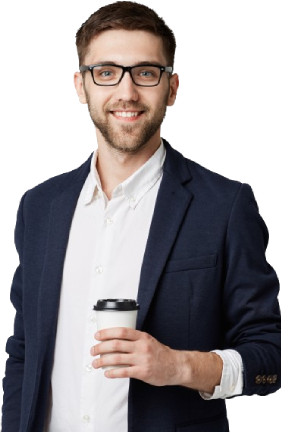
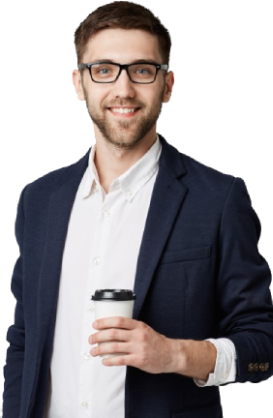
Add files via upload

diff --git a/portfolio.html b/portfolio.html
@@ -64,8 +64,8 @@
                 <div class="row portfolio-container">
                     <div class="col-lg-4 col-md-6 portfolio-item">
                         <div class="portfolio-img">
-                            <img src="images/portfolio-1.jpg" class="img-fluid" alt="Portfolio">
-                            <a href="images/portfolio-1.jpg" data-lightbox="portfolio" data-title="Lorem ipsum dolor" class="link-preview" title="Preview"><i class="ion-md-eye"></i></a>
+                            <img src="images/portfolio-1.png" class="img-fluid" alt="Portfolio">
+                            <a href="images/portfolio-1.png" data-lightbox="portfolio" data-title="Lorem ipsum dolor" class="link-preview" title="Preview"><i class="ion-md-eye"></i></a>
                             <a href="" class="link-details" title="More Details"><i class="ion-md-open"></i></a>
                         </div>
                         <div class="portfolio-info">
@@ -75,8 +75,8 @@
                     </div>
                     <div class="col-lg-4 col-md-6 portfolio-item">
                         <div class="portfolio-img">
-                            <img src="images/portfolio-2.jpg" class="img-fluid" alt="Portfolio">
-                            <a href="images/portfolio-2.jpg" class="link-preview" data-lightbox="portfolio" data-title="Nulla ullamcorper pharetra" title="Preview"><i class="ion-md-eye"></i></a>
+                            <img src="images/portfolio-2.png" class="img-fluid" alt="Portfolio">
+                            <a href="images/portfolio-2.png" class="link-preview" data-lightbox="portfolio" data-title="Nulla ullamcorper pharetra" title="Preview"><i class="ion-md-eye"></i></a>
                             <a href="" class="link-details" title="More Details"><i class="ion-md-open"></i></a>
                         </div>
                         <div class="portfolio-info">
@@ -86,8 +86,8 @@
                     </div>
                     <div class="col-lg-4 col-md-6 portfolio-item">
                         <div class="portfolio-img">
-                            <img src="images/portfolio-3.jpg" class="img-fluid" alt="Portfolio">
-                            <a href="images/portfolio-3.jpg" class="link-preview" data-lightbox="portfolio" data-title="Phasellus eget dictum" title="Preview"><i class="ion-md-eye"></i></a>
+                            <img src="images/portfolio-3.png" class="img-fluid" alt="Portfolio">
+                            <a href="images/portfolio-3.png" class="link-preview" data-lightbox="portfolio" data-title="Phasellus eget dictum" title="Preview"><i class="ion-md-eye"></i></a>
                             <a href="" class="link-details" title="More Details"><i class="ion-md-open"></i></a>
                         </div>
                         <div class="portfolio-info">
@@ -97,8 +97,8 @@
                     </div>
                     <div class="col-lg-4 col-md-6 portfolio-item">
                         <div class="portfolio-img">
-                            <img src="images/portfolio-4.jpg" class="img-fluid" alt="Portfolio">
-                            <a href="images/portfolio-4.jpg" data-lightbox="portfolio" data-title="Lorem ipsum dolor" class="link-preview" title="Preview"><i class="ion-md-eye"></i></a>
+                            <img src="images/portfolio-4.png" class="img-fluid" alt="Portfolio">
+                            <a href="images/portfolio-4.png" data-lightbox="portfolio" data-title="Lorem ipsum dolor" class="link-preview" title="Preview"><i class="ion-md-eye"></i></a>
                             <a href="" class="link-details" title="More Details"><i class="ion-md-open"></i></a>
                         </div>
                         <div class="portfolio-info">

diff --git a/service.html b/service.html
@@ -77,7 +77,7 @@
                     <div class="col-sm-6 col-md-4 col-lg-3">
                         <div class="service-item">
                             <div class="service-icon">
-                                <img src="images/graphic.jpg" alt="graphic" title="graphic">
+                                <img src="images/graphic.png" alt="graphic" title="graphic">
                             </div>
                             <div class="service-detail">
                                 <h4><a href="">GRAPHIC Design</a></h4>
@@ -99,7 +99,7 @@
                     <div class="col-sm-6 col-md-4 col-lg-3">
                         <div class="service-item">
                             <div class="service-icon">
-                                <img src="images/webdevelop.jpg" alt="webdevelop" title="webdevelop">
+                                <img src="images/webdevelop.webp" alt="webdevelop" title="webdevelop">
                             </div>
                             <div class="service-detail">
                                 <h4><a href="">WEB DEVELOPMENT</a></h4>
@@ -132,7 +132,7 @@
                     <div class="col-sm-6 col-md-4 col-lg-3">
                         <div class="service-item">
                             <div class="service-icon">
-                                <img src="images/digital-marketing.jpg" alt="digital-marketing" title="digital-marketing">
+                                <img src="images/digital-marketing.webp" alt="digital-marketing" title="digital-marketing">
                             </div>
                             <div class="service-detail">
                                 <h4><a href="">DIGITAL MARKETING</a></h4>

diff --git a/client.html b/client.html
@@ -69,11 +69,11 @@
                     <img src="images/client-1.png" alt="client-1">
                     <img src="images/client-2.png" alt="client-2">
                     <img src="images/client-3.png" alt="client-3">
-                    <img src="images/client-4.jpg" alt="client-4">
-                    <img src="images/client-5.jpg" alt="client-5">
+                    <img src="images/client-4.png" alt="client-4">
+                    <img src="images/client-5.png" alt="client-5">
                     <img src="images/client-6.png" alt="client-6">
                     <img src="images/client-7.png" alt="client-7">
-                    <img src="images/client-8.svg" alt="client-8">
+                    <img src="images/client-8.png" alt="client-8">
                 </div>
             </div>
         </div>

diff --git a/index.html b/index.html
@@ -84,7 +84,7 @@
                     <div class="carousel-item">
                         <div class="row align-items-center">
                             <div class="col-md-6">
-                                <div class="carousel-content mt-5">
+                                <div class="carousel-content">
                                     <h2 class="pb-4">Pocket-Friendly web design & web development company</h2>
                                     <p>User-centric web design company in Chennai, India. Meet our website designers and web developers to generate more potential leads from your website, our web development team also provides customized dynamic website development services at an affordable price in Chennai, India.</p>
                                     <a class="btn" href="">Read More</a>
